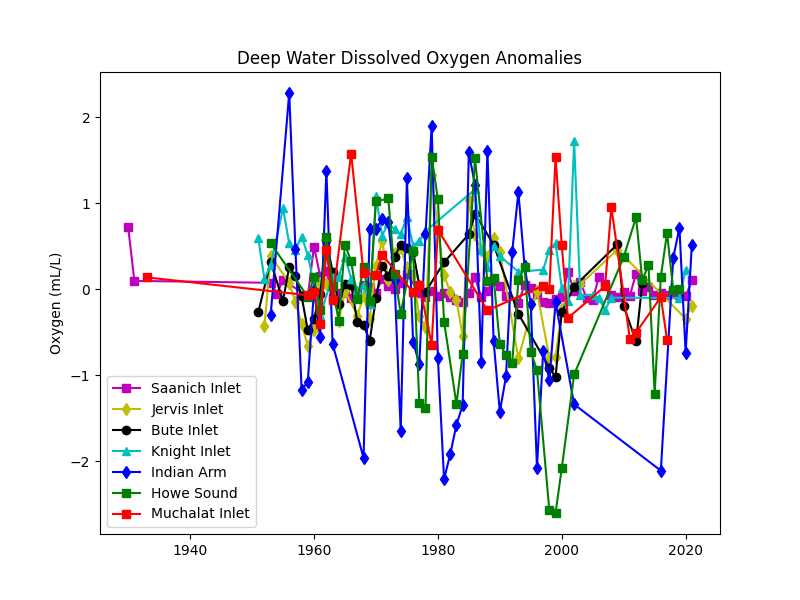
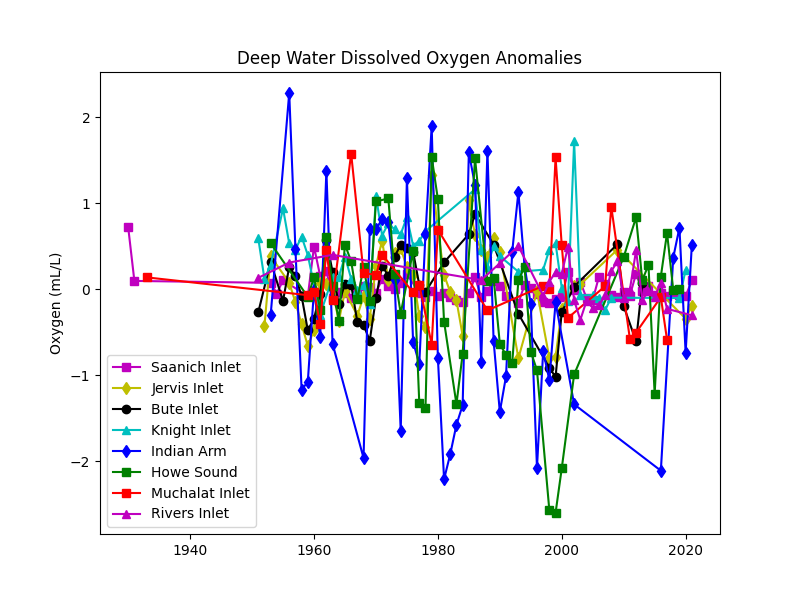
add Rivers Inlet

diff --git a/index.html b/index.html
@@ -73,6 +73,8 @@
 			<img src="figures/howe-sound-samples.png" loading="lazy">
 			<h3>Muchalat Inlet</h3>
 			<img src="figures/muchalat-inlet-samples.png" loading="lazy">
+			<h3>Rivers Inlet</h3>
+			<img src="figures/rivers-inlet-samples.png" loading="lazy">
 		</div>
 
 		<div class="averaging-content monthly raw">
@@ -84,6 +86,7 @@
 				<button class="inlet-tablinks" onclick="changeInlet(event, 'indian-arm')">Indian Arm</button>
 				<button class="inlet-tablinks" onclick="changeInlet(event, 'howe-sound')">Howe Sound</button>
 				<button class="inlet-tablinks" onclick="changeInlet(event, 'muchalat-inlet')">Muchalat Inlet</button>
+				<button class="inlet-tablinks" onclick="changeInlet(event, 'rivers-inlet')">Rivers Inlet</button>
 			</div>
 
 			<div id="saanich-inlet" class="inlet-content">
@@ -294,6 +297,36 @@
 					<img src="figures/muchalat-inlet-salinity.png" loading="lazy">
 					<h4>Dissolved Oxygen</h4>
 					<img src="figures/muchalat-inlet-oxygen.png" loading="lazy">
+				</div>
+			</div>
+
+			<div id="rivers-inlet" class="inlet-content">
+				<h2>Rivers Inlet</h2>
+				<h3>Physical Description</h3>
+				<ul>
+					<li>Length: 45 km</li>
+					<li>Maximum depth: 350 m</li>
+					<li>Major basins: one</li>
+					<li>Sill depth: 100 m</li>
+				</ul>
+				<h3>Map and Section</h3>
+				<img src="figures/rivers-inlet-map.gif" loading="lazy">
+				<h3>Time series of deep water properties<h3>
+				<div id="rivers-inlet-monthly" class="averaging-content monthly">
+					<h4>Temperature</h4>
+					<img src="figures/rivers-inlet-temperature-average.png" loading="lazy">
+					<h4>Salinity</h4>
+					<img src="figures/rivers-inlet-salinity-average.png" loading="lazy">
+					<h4>Dissolved Oxygen</h4>
+					<img src="figures/rivers-inlet-oxygen-average.png" loading="lazy">
+				</div>
+				<div id="rivers-inlet-raw" class="averaging-content raw">
+					<h4>Temperature</h4>
+					<img src="figures/rivers-inlet-temperature.png" loading="lazy">
+					<h4>Salinity</h4>
+					<img src="figures/rivers-inlet-salinity.png" loading="lazy">
+					<h4>Dissolved Oxygen</h4>
+					<img src="figures/rivers-inlet-oxygen.png" loading="lazy">
 				</div>
 			</div>
 		</div>
